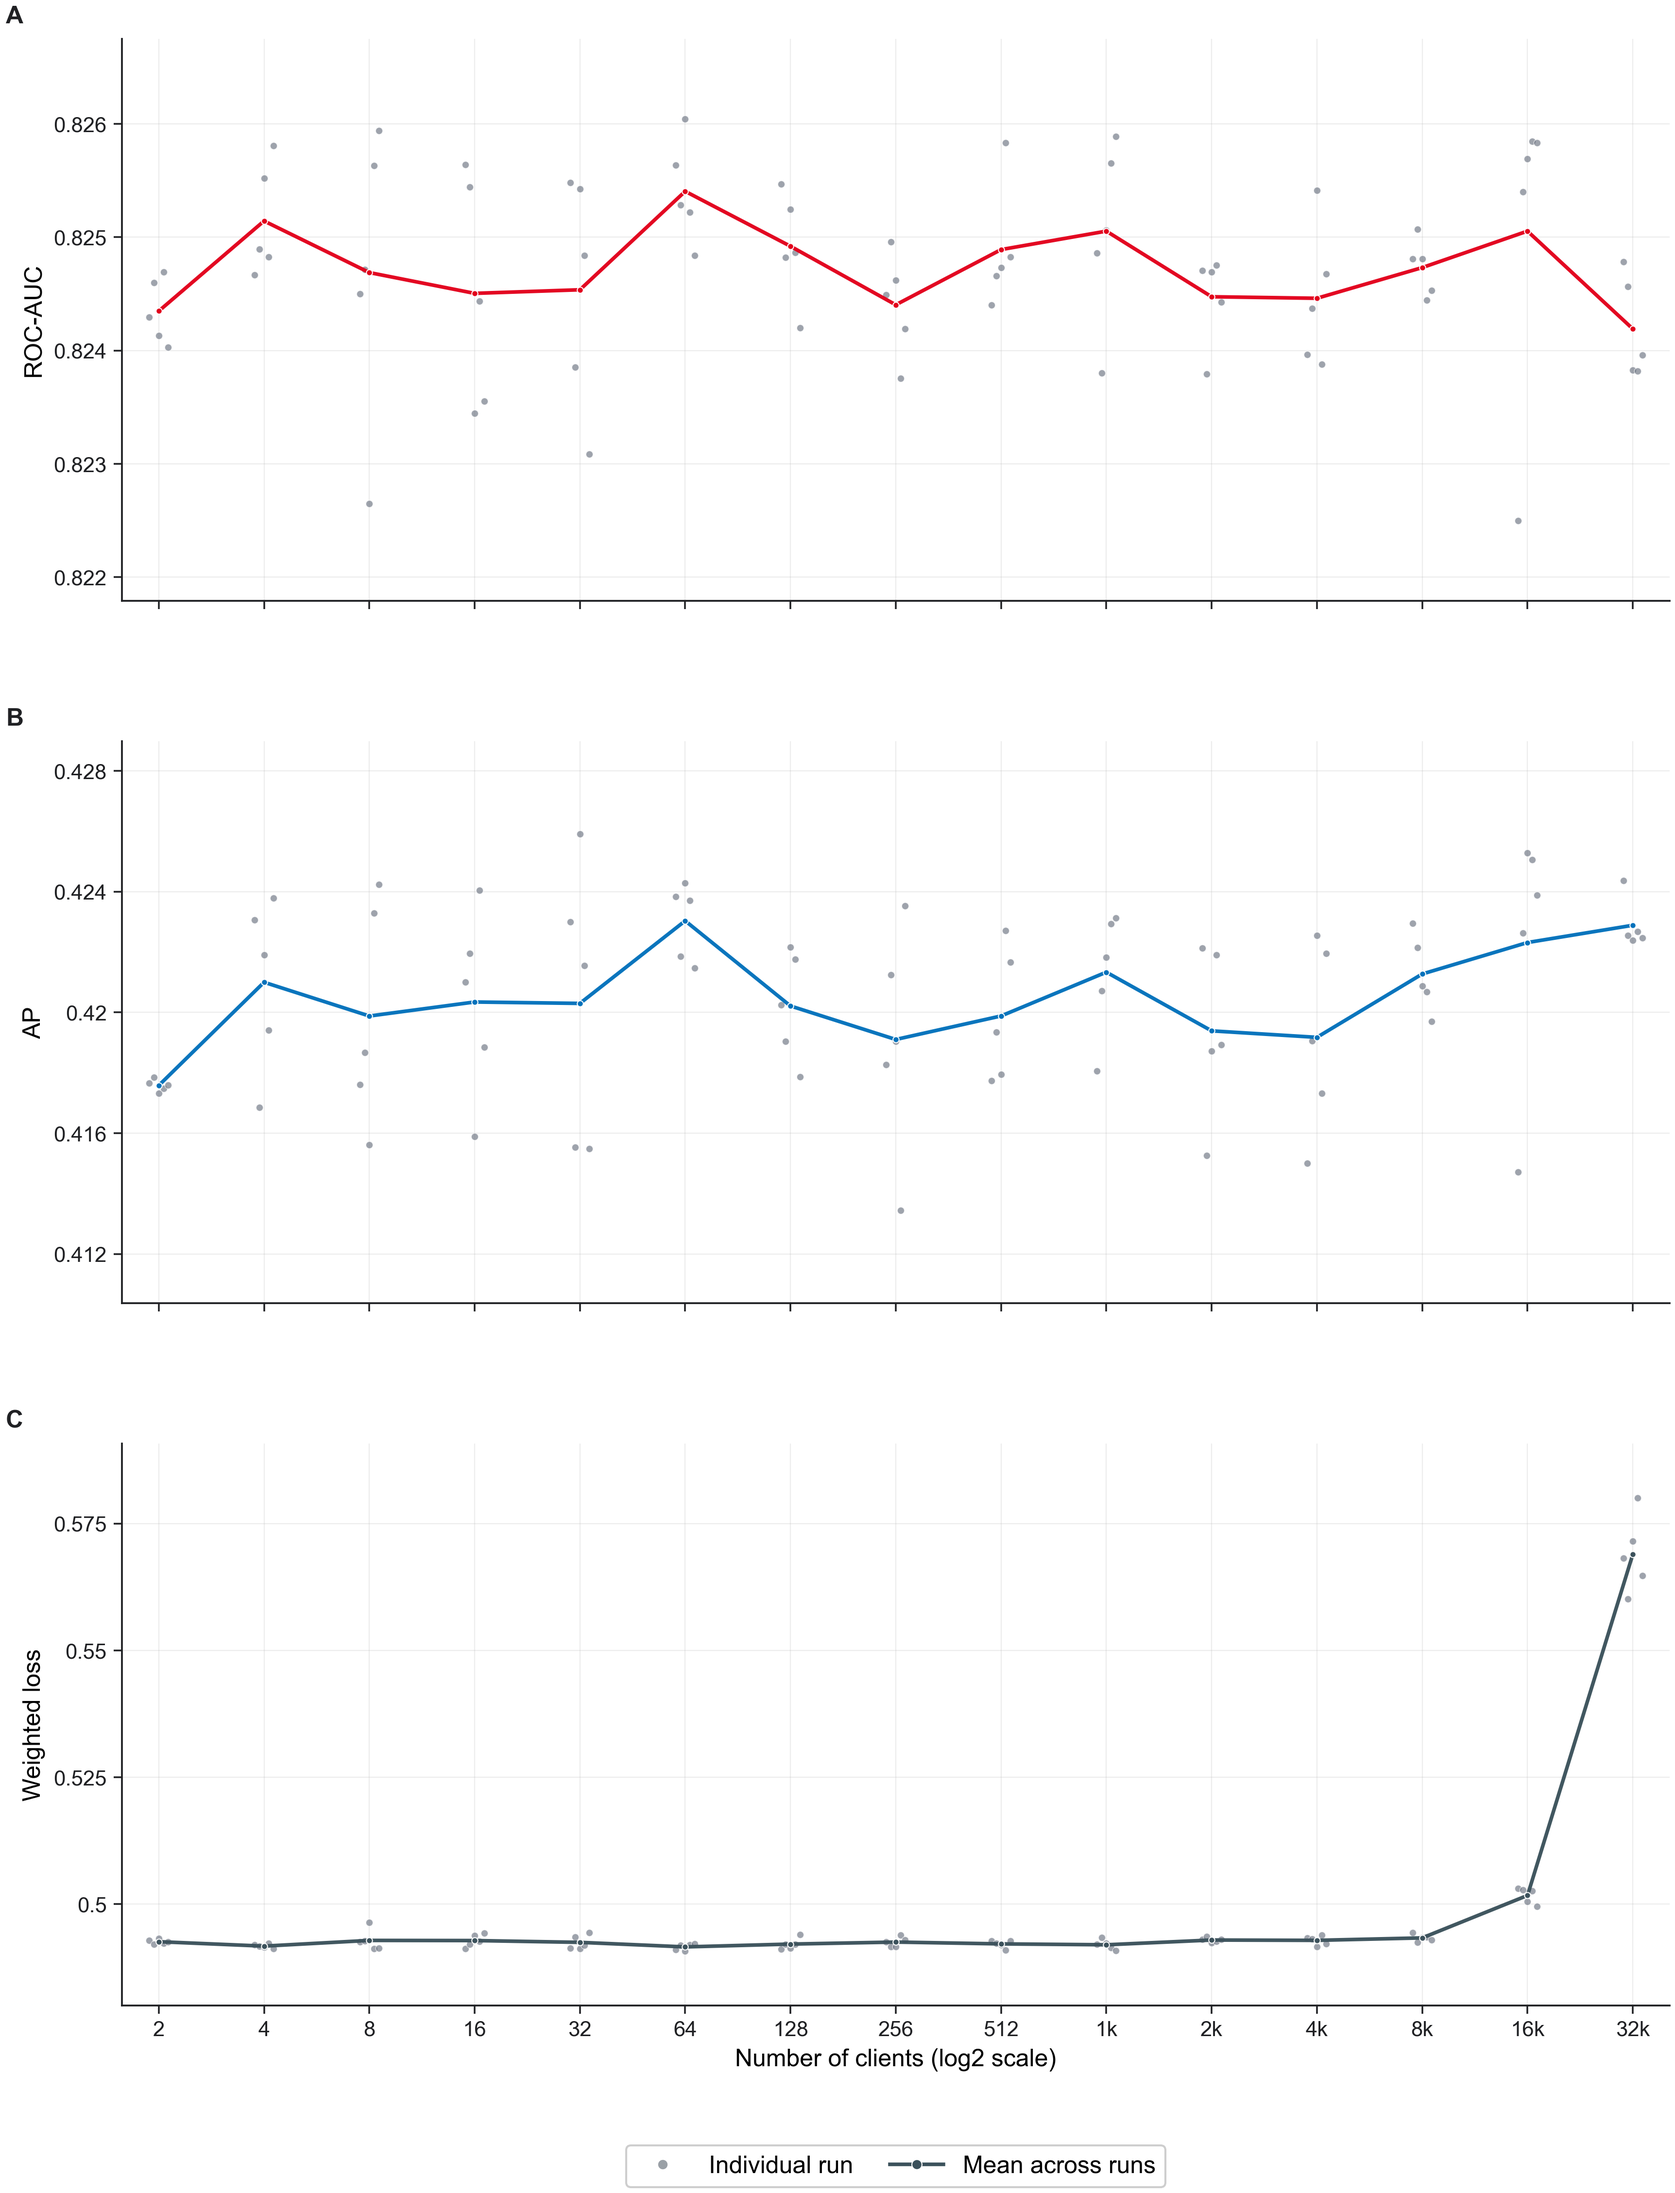
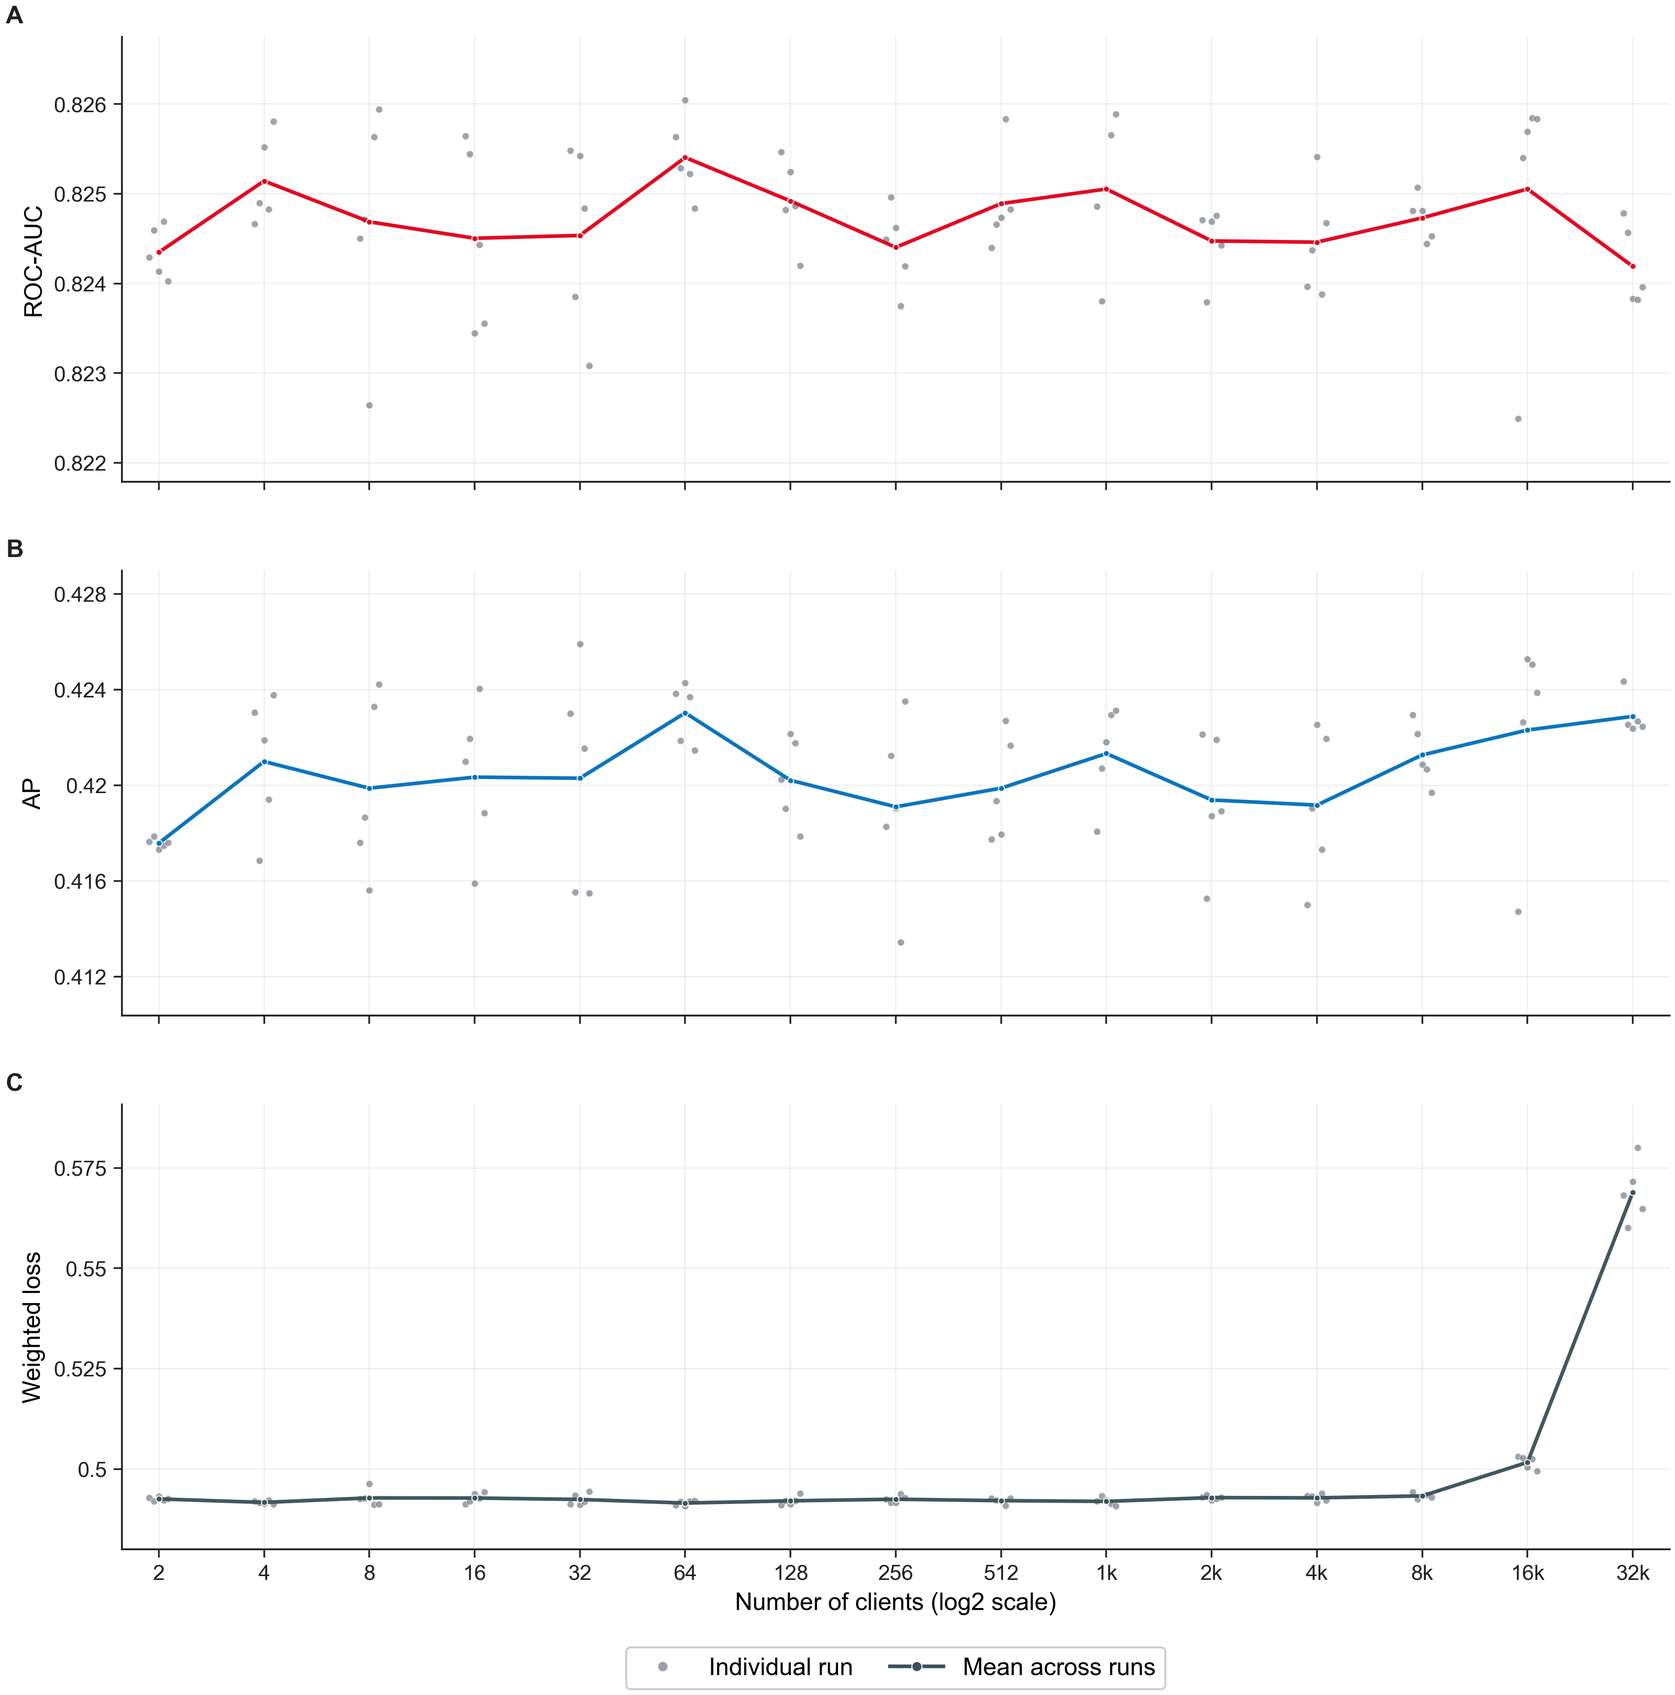
new plot design

diff --git a/plot-thr-indep.py b/plot-thr-indep.py
@@ -660,11 +660,11 @@ def plot_absolute_performance(
     fig, axes = plt.subplots(
         3,
         1,
-        figsize=(width, width * 1.30),
+        figsize=(width, width * 1.0),
         sharex=True,
         constrained_layout=False,
     )
-    fig.subplots_adjust(left=0.10, right=0.985, top=0.985, bottom=0.12, hspace=0.25)
+    fig.subplots_adjust(left=0.10, right=0.985, top=0.985, bottom=0.12, hspace=0.20)
 
     export_rows: List[Dict[str, object]] = []
 
